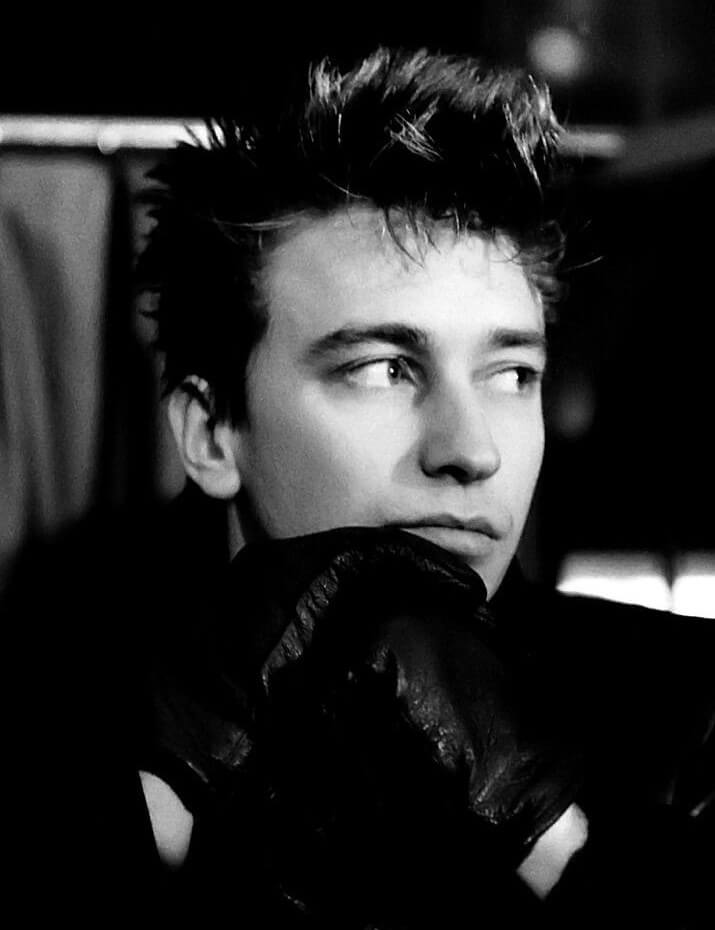
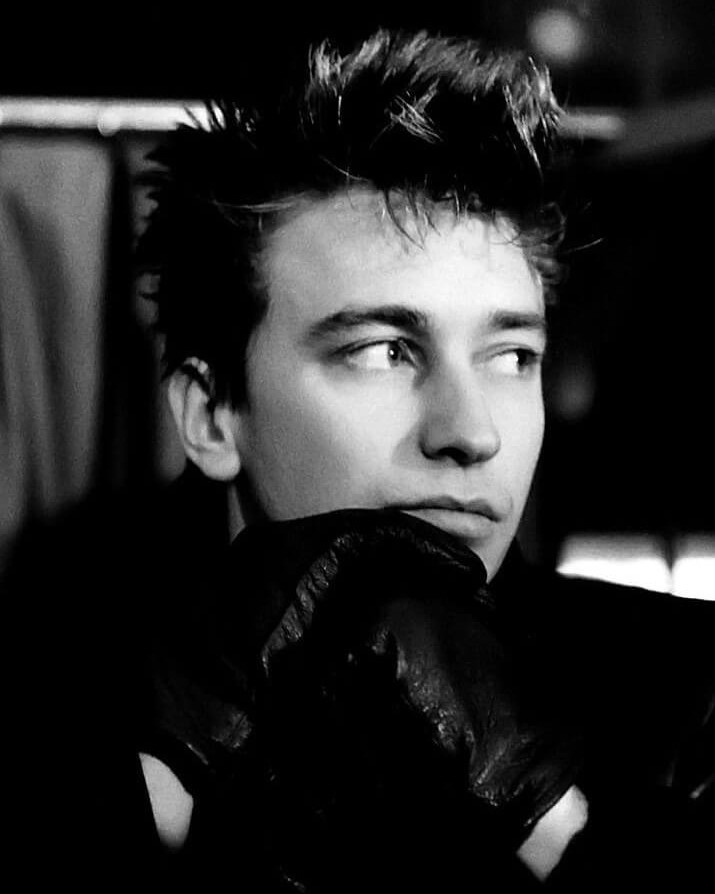
adjusted images sizes

diff --git a/src/components/members/martin/martin.tsx b/src/components/members/martin/martin.tsx
@@ -1,5 +1,5 @@
 import React, { useEffect } from 'react';
-import martin from '../../../assets/Martin.webp';
+import martin from '../../../assets/Martin.jpg';
 import classes from '../members-scss/members.module.scss';
 
 const Martin = (): JSX.Element  => {
